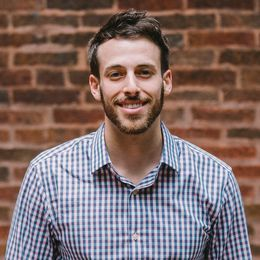
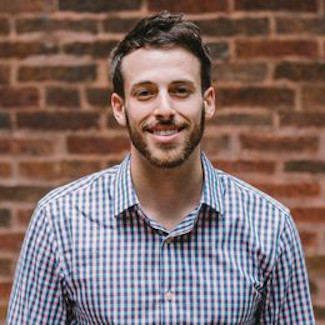
Updated about page bio and image

diff --git a/src/components/About/About.js b/src/components/About/About.js
@@ -18,11 +18,11 @@ class About extends Component {
 
         <div className="item text-container">
         <h1 className="text-container__title">About</h1>
-        <p className="text-container__copy">My passion is bridging the gap between design and programming. My approach to web design is creative, and holistic. I have a wide range of front-end development skills that include HTML5, CSS3, JavaScript, React.js, Bootstrap, and Flexbox Layouts. I have back-end web development proficiency in Node.js/Express, Sinatra, Ruby on Rails, Gulp, MongoDB and mySQL. I have digital marketing expertise in SEO, SEM (Google AdWords, Bing Ads) and Social Media Advertising.</p>
+        <p className="text-container__copy">My passion is bridging the gap between design and programming. My approach to web design is creative, and holistic. I have a wide range of front-end development skills that include HTML5, CSS3/SASS/LESS, JavaScript, React, Redux, Vue, Angular and Flexbox layouts as well as back-end web development proficiency in Node.js/Express, Ruby on Rails, MongoDB and mySQL. Additionally, I have strong client-level experience working within CMS environments such as AEM, Sitecore and Wordpress. Outside of web development, I have digital marketing expertise in SEO, SEM (Google AdWords, Bing Ads) and Social Media Advertising.</p>
         </div>
 
         <div class="item img-container">
-          <img src="/../img/about-dfeldbaum-3.jpg"/>
+        <img src="/../img/about-dfeldbaum.jpg"/>
         </div>
 
       </div>

diff --git a/src/styles/App.css b/src/styles/App.css
@@ -402,7 +402,8 @@ body, html {
     width: 100%; }
     @media screen and (min-width: 767px) {
       .about-section .img-container {
-        width: 35%; } }
+        width: 35%;
+        text-align: center; } }
     .about-section .img-container img {
       max-width: 100%;
       height: auto; }

diff --git a/src/styles/_about.scss b/src/styles/_about.scss
@@ -57,15 +57,12 @@
     width: 100%;
     @media screen and (min-width: $screen-sm) {
       width: 35%;
+      text-align: center;
     }
 
     img {
       max-width: 100%;
       height: auto;
     }
-
   }
-
-
-
 }
